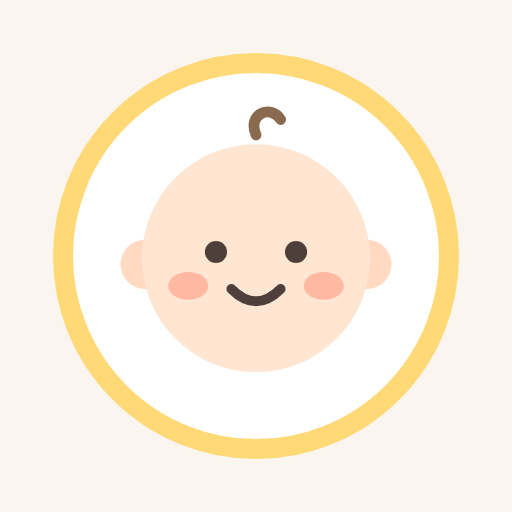
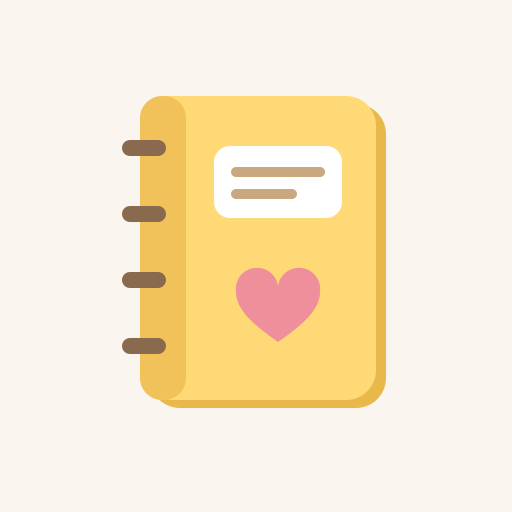
앱 아이콘을 아기 얼굴에서 수첩 그림으로

diff --git a/sw.js b/sw.js
@@ -1,5 +1,5 @@
 // 수정할 때 CACHE와 index.html의 APP_VERSION을 함께 올린다.
-const CACHE = 'baby-notebook-v0.16.2';
+const CACHE = 'baby-notebook-v0.16.3';
 const FILES = ['./', 'index.html', 'schedule.js', 'pet.js', 'couple.js', 'me.js', 'base-benefits.js', 'base-tips.js', 'local.js', 'regions.js', 'family.js', 'hospitals.js', 'drive.js', 'login.js', 'share.js', 'icons.js', 'care.js', 'album.js', 'notice.js', 'bell.js', 'swipe.js', 'media.js', 'viewer.js', 'sync.js', 'home.js', 'onboard.js', 'app.js', 'app.css', 'manifest.webmanifest', 'icon-192.png', 'apple-touch-icon.png'];
 importScripts('schedule.js', 'pet.js', 'couple.js', 'me.js', 'family.js', 'local.js', 'notice.js');
 self.addEventListener('install', e => { e.waitUntil(caches.open(CACHE).then(c => c.addAll(FILES)).then(() => self.skipWaiting())); });

diff --git a/index.html b/index.html
@@ -5,8 +5,8 @@
 <meta name="viewport" content="width=device-width, initial-scale=1, maximum-scale=1, user-scalable=no, viewport-fit=cover">
 <title>우리 수첩</title>
 <link rel="manifest" href="manifest.webmanifest">
-<link rel="icon" href="icon-192.png?v=2">
-<link rel="apple-touch-icon" href="apple-touch-icon.png?v=2">
+<link rel="icon" href="icon-192.png?v=3">
+<link rel="apple-touch-icon" href="apple-touch-icon.png?v=3">
 <meta name="apple-mobile-web-app-title" content="우리 수첩">
 <meta name="theme-color" content="#faf5ee">
 <link rel="preload" as="font" type="font/woff2" crossorigin href="https://cdn.jsdelivr.net/npm/@kfonts/nanum-square-round@0.2.0/NanumSquareRoundR.woff2">

diff --git a/app.js b/app.js
@@ -1,5 +1,5 @@
 'use strict';
-const APP_VERSION = '0.16.2';
+const APP_VERSION = '0.16.3';
 const S = Schedule, $ = s => document.querySelector(s);
 const esc = s => String(s == null ? '' : s).replace(/[&<>"']/g, c => ({ '&': '&amp;', '<': '&lt;', '>': '&gt;', '"': '&quot;', "'": '&#39;' }[c]));
 const today = () => new Date().toLocaleDateString('sv-SE');
